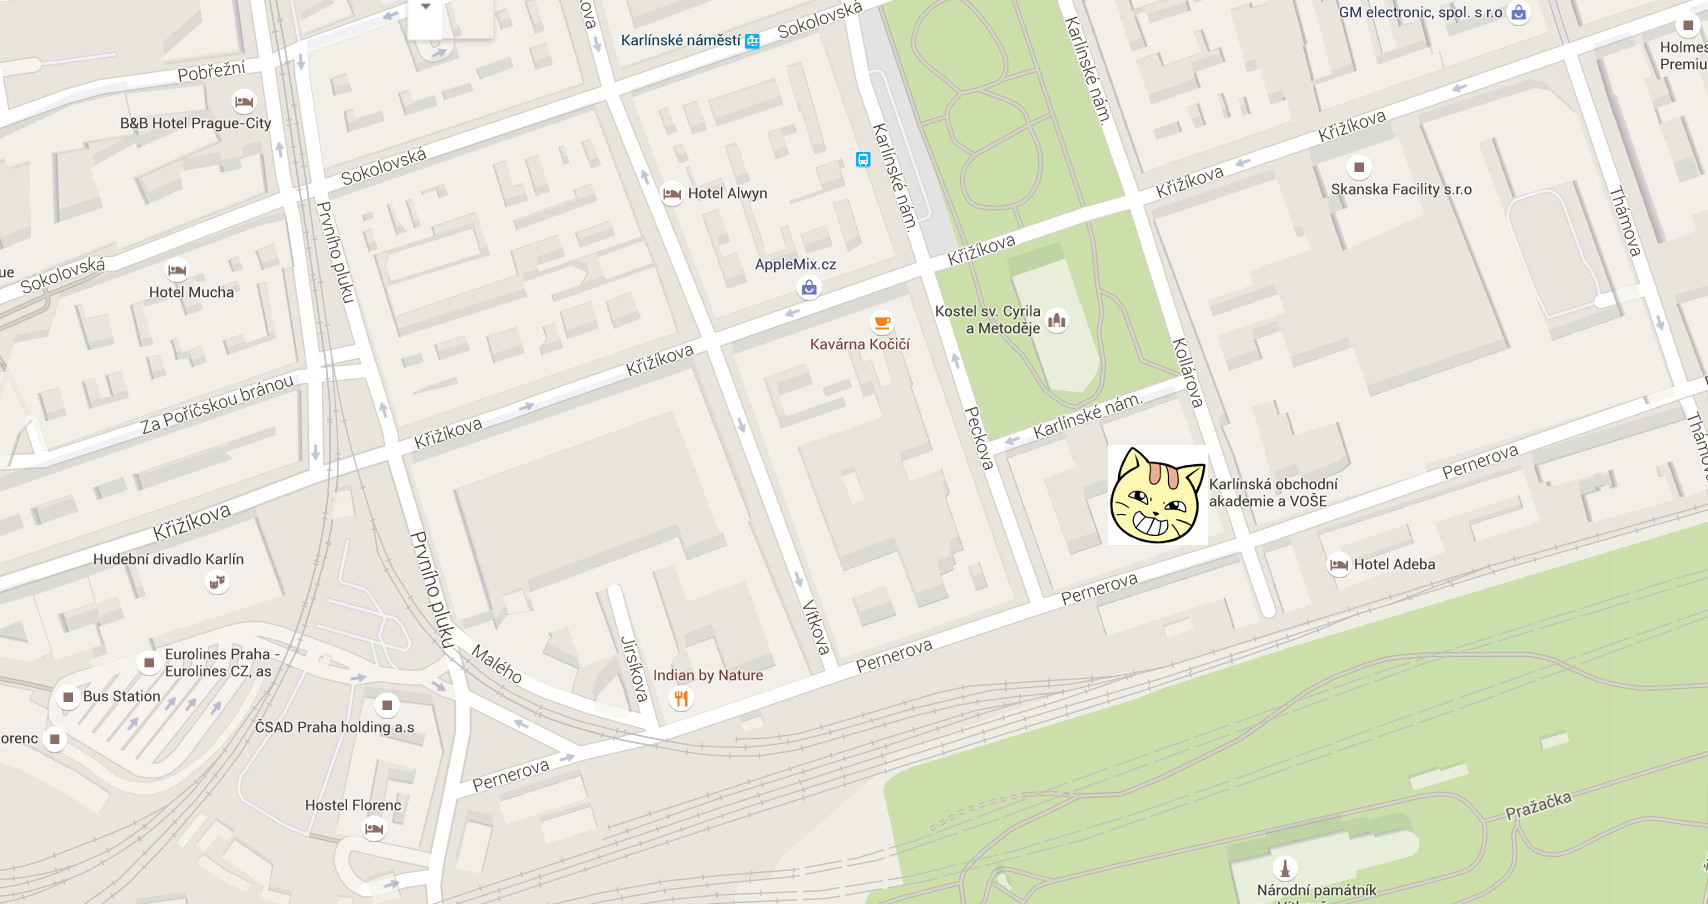
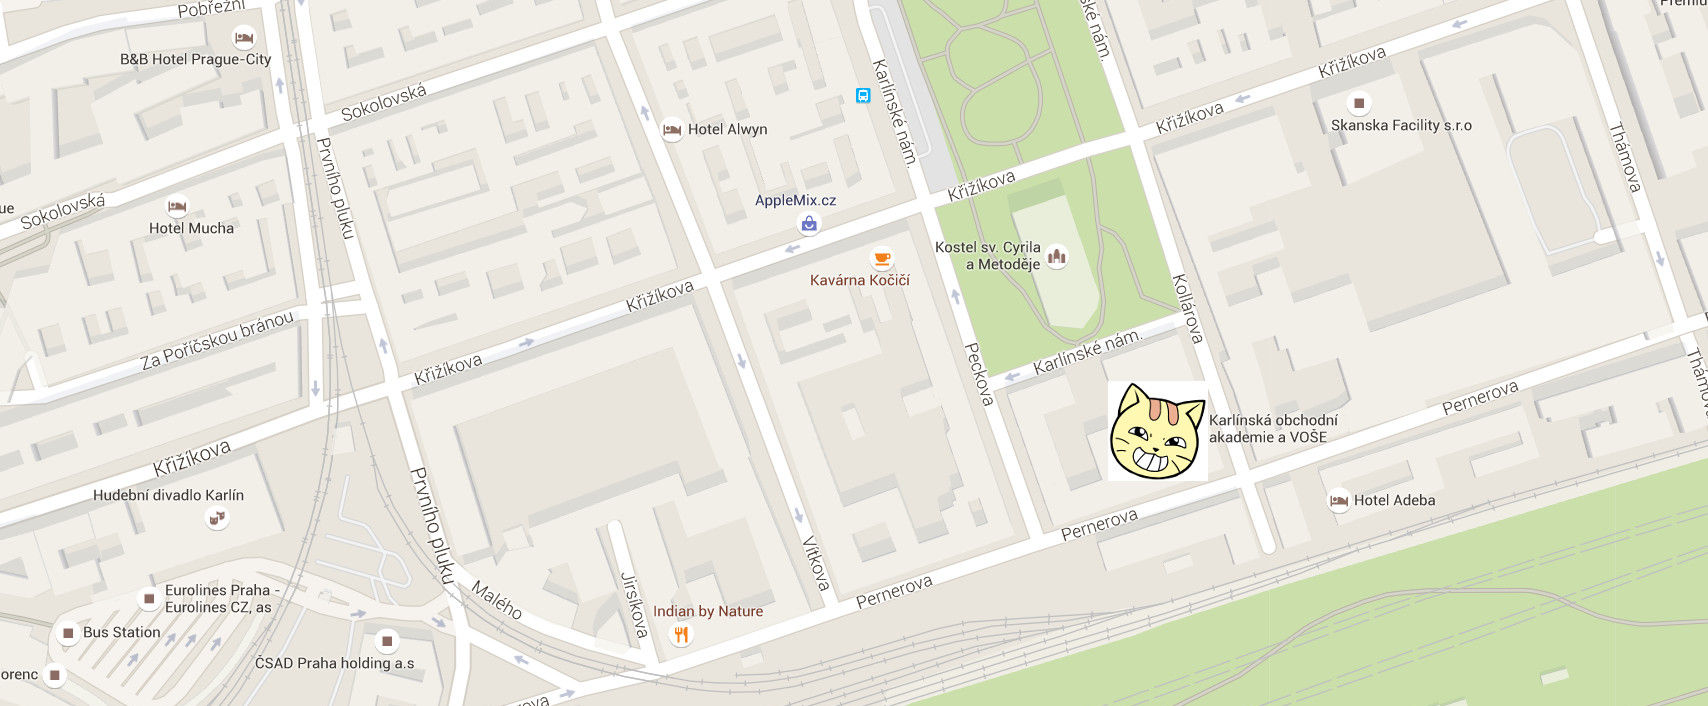
obrazky

diff --git a/www/assets/css/paralax.css b/www/assets/css/paralax.css
@@ -11,8 +11,6 @@ and open the template in the editor.
 .obsah {
   font-size: 1rem;
   color: #262626;
-  background-size: 35% auto;
-  background-attachment: fixed;
   background-repeat: no-repeat;
 }
 
@@ -31,7 +29,8 @@ and open the template in the editor.
   
   background-color: white;
   background-position: 22% 10%;
-  background-image: url("../paralax/obr1.png");
+  background-size: 34%;
+  background-image: url("../paralax/obr1.jpg");
   background-attachment: inherit;
 }
 
